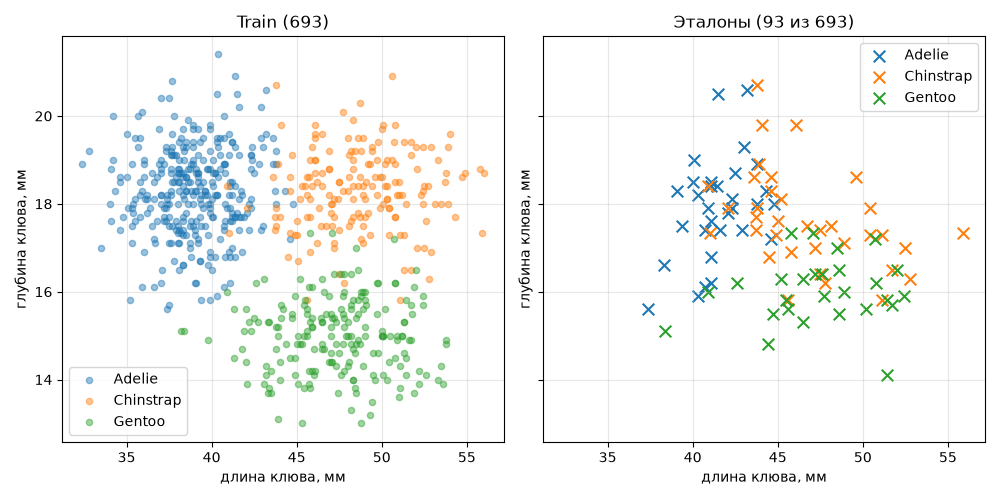
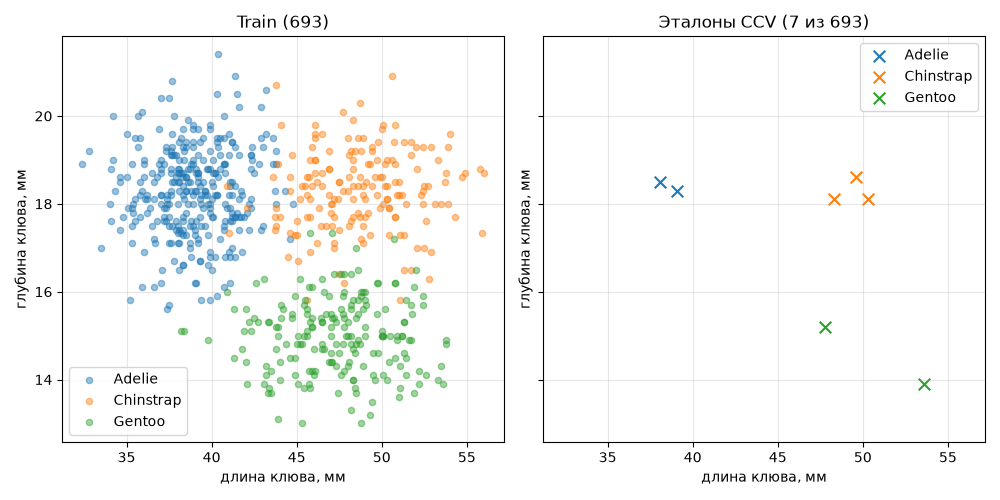
fix_mr_problems

diff --git a/students/karapuzov-vi/lab2/source/prototypes.py b/students/karapuzov-vi/lab2/source/prototypes.py
@@ -4,44 +4,55 @@ import numpy as np
 from sklearn.metrics import accuracy_score
 
 import data
-from knn import condensed_nn, knn_predict
+from knn import ccv_risk, knn_predict, select_prototypes_ccv
+
+CONTROL_LENGTH = 1
 
 X_synthetic = np.array([[0.0],[0.1],[0.2],[5.0],[5.1],[5.2]])
 y_synthetic = np.array([0,0,0,1,1,1])
-U_synthetic,y_synthetic_selected = condensed_nn(X_synthetic,y_synthetic,random_state=42)
-synthetic_errors = 0
-for i in range(len(y_synthetic)):
-    pred = knn_predict(U_synthetic,y_synthetic_selected,X_synthetic[i],k=1)
-    synthetic_errors += int(pred != y_synthetic[i])
-print(
-    "синтетический пример: эталонов",len(y_synthetic_selected),
-    "из",len(y_synthetic),"ошибок 1-NN",synthetic_errors,
+idx_synthetic,history_synthetic,dist_synthetic = select_prototypes_ccv(
+    X_synthetic,y_synthetic,control_length=CONTROL_LENGTH,
 )
-if synthetic_errors != 0 or len(y_synthetic_selected) != 2:
-    raise AssertionError(
-        f"на синтетическом примере ждали 2 эталона и 0 ошибок, "
-        f"получили {len(y_synthetic_selected)}, {synthetic_errors}"
-    )
-
+q_synthetic,pi_synthetic = ccv_risk(
+    dist_synthetic,y_synthetic,idx_synthetic,control_length=CONTROL_LENGTH,
+)
+print(
+    "синтетический пример: эталонов",len(idx_synthetic),
+    "из",len(y_synthetic),
+    "Q=Π(1) =",round(q_synthetic,3),
+)
+if abs(q_synthetic - history_synthetic[-1]) > 1e-9 or q_synthetic != 0.0:
+    raise AssertionError(f"на синтетическом примере ждали Q=0, получили {q_synthetic}")
+for cls in (0,1):
+    if int(np.sum(y_synthetic[idx_synthetic] == cls)) < 2:
+        raise AssertionError("в каждом классе нужно минимум два эталона: сосед эталона не он сам")
 
 started = time.perf_counter()
-U,U_labels = condensed_nn(data.X_train,data.y_train,random_state=42)
+idx,history,dist = select_prototypes_ccv(
+    data.X_train,data.y_train,control_length=CONTROL_LENGTH,
+)
 select_ms = (time.perf_counter() - started) * 1000
+U = data.X_train[idx]
+U_labels = data.y_train[idx]
 
-train_wrong = 0
-for i in range(len(data.y_train)):
-    pred = knn_predict(U,U_labels,data.X_train[i],k=1)
-    train_wrong += int(pred != data.y_train[i])
-print("train: эталонов",len(U_labels),"из",len(data.y_train))
-print("ошибок 1-NN по эталонам на train:",train_wrong)
-print("отбор занял, ms:",round(select_ms,1))
+q_omega,pi_omega = ccv_risk(dist,data.y_train,idx,control_length=CONTROL_LENGTH)
+q_full,pi_full = ccv_risk(
+    dist,data.y_train,np.arange(len(data.y_train)),control_length=CONTROL_LENGTH,
+)
+dist_self = dist.copy()
+np.fill_diagonal(dist_self,0.0)
+q_with_self,_ = ccv_risk(dist_self,data.y_train,idx,control_length=CONTROL_LENGTH)
+
+print("длина контроля L =",CONTROL_LENGTH,", R = (1,), Q = Π(1,Ω)")
+print("train: эталонов",len(idx),"из",len(data.y_train))
+print("Π(1) на всём train, самоисключение:",round(q_full,4))
+print("Π(1) на эталонах, самоисключение:",round(q_omega,4))
+print("Π(1) на эталонах, если объект сосед сам себе:",round(max(q_with_self,0.0),4))
+print("шагов наращивания:",len(history) - 1, "отбор, ms:",round(select_ms,1))
 for cls,name in enumerate(data.label_encoder.classes_):
     print(name,"эталонов",int((U_labels == cls).sum()))
-if train_wrong != 0:
-    raise AssertionError("после отбора 1-NN на эталонах обязан верно классифицировать весь train")
-
-KNN_K = 13
-k_on_u = min(KNN_K,len(U_labels))
+if abs(q_omega - history[-1]) > 1e-9:
+    raise AssertionError("критерий после отбора не совпал с историей жадного шага")
 
 
 def predict_ms(X_fit,y_fit,k,repeats=3):
@@ -54,25 +65,18 @@ def predict_ms(X_fit,y_fit,k,repeats=3):
     return pred, min(spent)
 
 
-full_pred,full_ms = predict_ms(data.X_train,data.y_train,KNN_K)
-full_1_pred,full_1_ms = predict_ms(data.X_train,data.y_train,1)
-u_k_pred,u_k_ms = predict_ms(U,U_labels,k_on_u)
-u_1_pred,u_1_ms = predict_ms(U,U_labels,1)
-
+full_pred,full_ms = predict_ms(data.X_train,data.y_train,1)
+u_pred,u_ms = predict_ms(U,U_labels,1)
 full_acc = accuracy_score(data.y_test,full_pred)
-full_1_acc = accuracy_score(data.y_test,full_1_pred)
-u_k_acc = accuracy_score(data.y_test,u_k_pred)
-u_1_acc = accuracy_score(data.y_test,u_1_pred)
+u_acc = accuracy_score(data.y_test,u_pred)
 
 print()
-print(f"{'метрика':<28}{'весь train':>14}{'эталоны':>14}")
-print(f"{'Размер выборки':<28}{len(data.y_train):14d}{len(U_labels):14d}")
-print(f"{'Время отбора (ms)':<28}{0:14.1f}{select_ms:14.1f}")
-print(f"{'k':<28}{KNN_K:14d}{k_on_u:14d}")
-print(f"{'Accuracy при своём k':<28}{full_acc:14.3f}{u_k_acc:14.3f}")
-print(f"{'Время предсказания (ms)':<28}{full_ms:14.1f}{u_k_ms:14.1f}")
-print(f"{'Accuracy 1-NN':<28}{full_1_acc:14.3f}{u_1_acc:14.3f}")
-print(f"{'Время 1-NN (ms)':<28}{full_1_ms:14.1f}{u_1_ms:14.1f}")
+print(f"{'метрика':<42}{'весь train':>14}{'эталоны CCV':>14}")
+print(f"{'Размер выборки':<42}{len(data.y_train):14d}{len(U_labels):14d}")
+print(f"{'Π(1), самоисключение':<42}{q_full:14.4f}{q_omega:14.4f}")
+print(f"{'Accuracy 1-NN на test':<42}{full_acc:14.3f}{u_acc:14.3f}")
+print(f"{'Время предсказания (ms)':<42}{full_ms:14.1f}{u_ms:14.1f}")
+print(f"{'Время отбора (ms)':<42}{0:14.1f}{select_ms:14.1f}")
 
 names = list(data.label_encoder.classes_)
 X_mm = data.scaler.inverse_transform(data.X_train)
@@ -81,7 +85,7 @@ U_mm = data.scaler.inverse_transform(U)
 fig,axes = plt.subplots(1,2,figsize=(10,5),sharex=True,sharey=True)
 panels = (
     (axes[0],X_mm,data.y_train,"o",20,0.45,f"Train ({len(data.y_train)})"),
-    (axes[1],U_mm,U_labels,"x",70,1.0,f"Эталоны ({len(U_labels)} из {len(data.y_train)})"),
+    (axes[1],U_mm,U_labels,"x",70,1.0,f"Эталоны CCV ({len(U_labels)} из {len(data.y_train)})"),
 )
 for ax,coords,labels,marker,size,alpha,title in panels:
     for cls,name in enumerate(names):

diff --git a/students/karapuzov-vi/lab2/source/knn.py b/students/karapuzov-vi/lab2/source/knn.py
@@ -8,17 +8,14 @@ def knn_predict(X_train,y_train,x_test,k=1):
     most_common = Counter(k_nearest_labels).most_common()
     return most_common[0][0]
 
-#Евклидово расстояние 
 def euclid_distance(x1,x2):
     return np.sqrt(np.sum((x1 - x2)**2))
 
 
-#Ядро активация весов
 def gausian_kernel(distance,h):
     z = distance/h
     return np.exp(-z**2/2)
 
-#Пархена окно
 def parzen_predict(X_train,y_train,x_test,k):
     distances = [euclid_distance(x_test,row) for row in X_train]
     k_indices = np.argsort(distances)[:k]
@@ -32,7 +29,6 @@ def parzen_predict(X_train,y_train,x_test,k):
         scores[label] = scores.get(label,0.0) + weight
     return max(scores,key=scores.get)
 
-#Ошибку считаем
 def loo_cv(X,y,k,model_func):
     n = len(y)
     errors = 0
@@ -45,27 +41,74 @@ def loo_cv(X,y,k,model_func):
         errors += int(y_pred != y_true)
     return errors / n
 
-#Отбор эталонов
-def condensed_nn(X,y,max_iter=50,random_state=42):
-    rng = np.random.default_rng(random_state)
+def pairwise_distances(X):
+    diff = X[:,None,:] - X[None,:,:]
+    dist = np.sqrt(np.sum(diff * diff,axis=-1))
+    np.fill_diagonal(dist,np.inf)
+    return dist
+
+def compactness_pi(dist,y,omega,control_length):
+    omega = np.asarray(list(omega),dtype=int)
     n = len(y)
-    selected = [int(rng.integers(0,n))]
-    chosen = set(selected)
-    changed = True
-    iteration = 0
-    while changed and iteration < max_iter:
-        changed = False
-        for i in range(n):
-            if i in chosen:
+    pi = np.ones(control_length,dtype=float)
+    if len(omega) == 0:
+        return pi
+    dsub = dist[:,omega]
+    order = np.argsort(dsub,axis=1)
+    for m in range(control_length):
+        if m >= len(omega):
+            pi[m] = 1.0
+            continue
+        nn = omega[order[:,m]]
+        nn_dist = dsub[np.arange(n),order[:,m]]
+        wrong = np.ones(n,dtype=bool)
+        has = np.isfinite(nn_dist)
+        wrong[has] = y[nn[has]] != y[has]
+        pi[m] = float(wrong.mean())
+    return pi
+
+def ccv_risk(dist,y,omega,control_length=1):
+    if control_length != 1:
+        raise ValueError("длина контроля в этой работе L=1")
+    pi = compactness_pi(dist,y,omega,control_length)
+    R = np.array([1.0])
+    return float(np.sum(pi * R)), pi
+
+def select_prototypes_ccv(X,y,control_length=1):
+    if control_length != 1:
+        raise ValueError("отбор записан для L=1, критерий Π(1,Ω)")
+    dist = pairwise_distances(np.asarray(X,dtype=float))
+    y = np.asarray(y)
+    n = len(y)
+    chosen = np.zeros(n,dtype=bool)
+    nn_dist = np.full(n,np.inf)
+    wrong = np.ones(n,dtype=bool)
+    selected = []
+    history = [1.0]
+    while True:
+        best_c = None
+        best_err = int(wrong.sum())
+        for c in range(n):
+            if chosen[c]:
                 continue
-            y_pred = knn_predict(X[selected],y[selected],X[i],k=1)
-            if y_pred != y[i]:
-                selected.append(i)
-                chosen.add(i)
-                changed = True
-        iteration += 1
-    selected = np.array(selected)
-    return X[selected], y[selected]
+            closer = dist[:,c] < nn_dist
+            closer[c] = False
+            new_wrong = y != y[c]
+            new_err = int(wrong.sum() - wrong[closer].sum() + new_wrong[closer].sum())
+            if new_err < best_err:
+                best_err = new_err
+                best_c = c
+        if best_c is None:
+            break
+        c = best_c
+        closer = dist[:,c] < nn_dist
+        closer[c] = False
+        nn_dist[closer] = dist[closer,c]
+        wrong[closer] = y[closer] != y[c]
+        chosen[c] = True
+        selected.append(c)
+        history.append(best_err / n)
+    return np.array(selected,dtype=int), history, dist
 
 def check_knn_and_parzen():
     X_synthetic = np.array([[0.0],[1.0],[1.1]])
@@ -75,7 +118,7 @@ def check_knn_and_parzen():
         (np.array([0.2]),2,0,1),
         (np.array([0.0]),1,0,0),
     ]
-    print("=== синтетический пример ===")
+    print("=== синтетический пример: KNN считает головы, Парзен суммирует веса ===")
     print("точки: класс 0 в 0.0, класс 1 в 1.0 и 1.1")
     for query,k,expected_knn,expected_parzen in synthetic_cases:
         knn_pred = knn_predict(X_synthetic,y_synthetic,query,k)

diff --git a/students/karapuzov-vi/lab2/source/data.py b/students/karapuzov-vi/lab2/source/data.py
@@ -7,8 +7,6 @@ from sklearn.model_selection import train_test_split
 import kagglehub
 from kagglehub import KaggleDatasetAdapter
 
-# Тот же Penguin Species, что раньше лежал в species.csv.
-# kagglehub сам скачивает таблицу, локальный файл в репозиторий класть не нужно.
 KAGGLE_DATASET = "srisyra02/penguin-species-dataset"
 DATA_FILE = "Penguin Species Prediction Dataset.csv"
 

diff --git a/students/karapuzov-vi/lab2/readme.md b/students/karapuzov-vi/lab2/readme.md
@@ -57,19 +57,32 @@ KNN: евклидово расстояние, `k` ближайших, класс
 
 ## Отбор эталонов
 
-Алгоритм CNN (Hart). Начинаем со случайной точки train (`random_state=42`). Точку добавляем в набор, только если 1-NN по уже выбранным эталонам даёт чужой класс. Повтор, пока проход ничего не добавляет. Внутренние точки облака не сохраняются: соседний эталон и так называет их верный вид.
+Эталоны отбираются полным скользящим контролем через профиль компактности, не Condensed NN. Сосед объекта \(x_i\) ищется в \(\Omega\setminus\{x_i\}\): расстояние до себя не засчитывается.
 
-Проверка на синтетическом примере из двух далёких облаков: остаётся 2 эталона из 6, и 1-NN по ним не ошибается. На train пингвинов 1-NN по эталонам тоже не ошибается ни на одной из 693 точек.
+\[
+\Pi(m, \Omega) = \frac{1}{\ell}\sum_{i=1}^{\ell}[y_i \neq y_i^{(m)}(\Omega\setminus\{x_i\})]
+\]
 
-Эталонов 93 из 693 (примерно в 7.5 раза меньше): Adelie 31, Chinstrap 35, Gentoo 27. Chinstrap оставляет больше эталонов на свой размер, потому что сидит на границе с Gentoo. График `plots/prototypes.png`: слева весь train, справа кресты эталонов. Середины облаков пустые
+\[
+Q(\Omega) = \sum_{m=1}^{L} \Pi(m, \Omega)\, R(m)
+\]
 
-| Метрика | весь train | эталоны |
+Длина контроля \(L = 1\): в сумму входит только первый сосед. Отбор сделан для 1-NN, поэтому \(R(1) = 1\) и \(R(m) = 0\) при \(m > 1\). Критерий равен \(\Pi(1, \Omega)\). На всём train \(\Pi(1, X^{\ell}) = 0.0548\), это совпадает с LOO для \(k=1\).
+
+Множество наращивается жадно: добавляется кандидат, который сильнее всего уменьшает \(Q\), пока такой кандидат есть.
+
+На синтетическом примере из двух далёких облаков по три точки одного эталона на класс недостаточно, потому что эталон классифицируется другим эталоном. Остаётся 4 из 6, \(Q = 0\).
+
+На train отобрано 7 эталонов из 693: Adelie 2, Chinstrap 3, Gentoo 2. \(\Pi(1, \Omega) = 0.0274\). График `plots/prototypes.png`: слева train, справа эти семь точек.
+
+| Метрика | весь train | эталоны CCV |
 |---|---:|---:|
-| Размер | 693 | 93 |
-| Accuracy при k=13 | 0.970 | 0.973 |
-| Время предсказания при k=13, мс | 482 | 64 |
-| Accuracy 1-NN | 0.956 | 0.953 |
+| Размер | 693 | 7 |
+| \(\Pi(1)\), самоисключение | 0.0548 | 0.0274 |
+| Accuracy 1-NN на test | 0.956 | 0.976 |
+| Время предсказания, мс | 500 | 6.6 |
+| Время отбора, мс | 0 | 60 |
 
 ## Вывод
 
-По клюву три вида разделяются уже простым KNN: на отложенном test accuracy 0.970 при `k=13`. Окно Парзена на своём `k=3` даёт 0.963. Реализация KNN совпала со sklearn по всем меткам.
+По клюву три вида разделяются уже простым KNN: на отложенном test accuracy 0.970 при `k=13`. Окно Парзена на своём `k=3` даёт 0.963. Реализация KNN совпала со sklearn по всем меткам. Эталоны отобраны по \(Q = \Pi(1, \Omega)\) при длине контроля \(L = 1\) и самоисключении: 7 объектов вместо 693, 1-NN на test не проседает.
